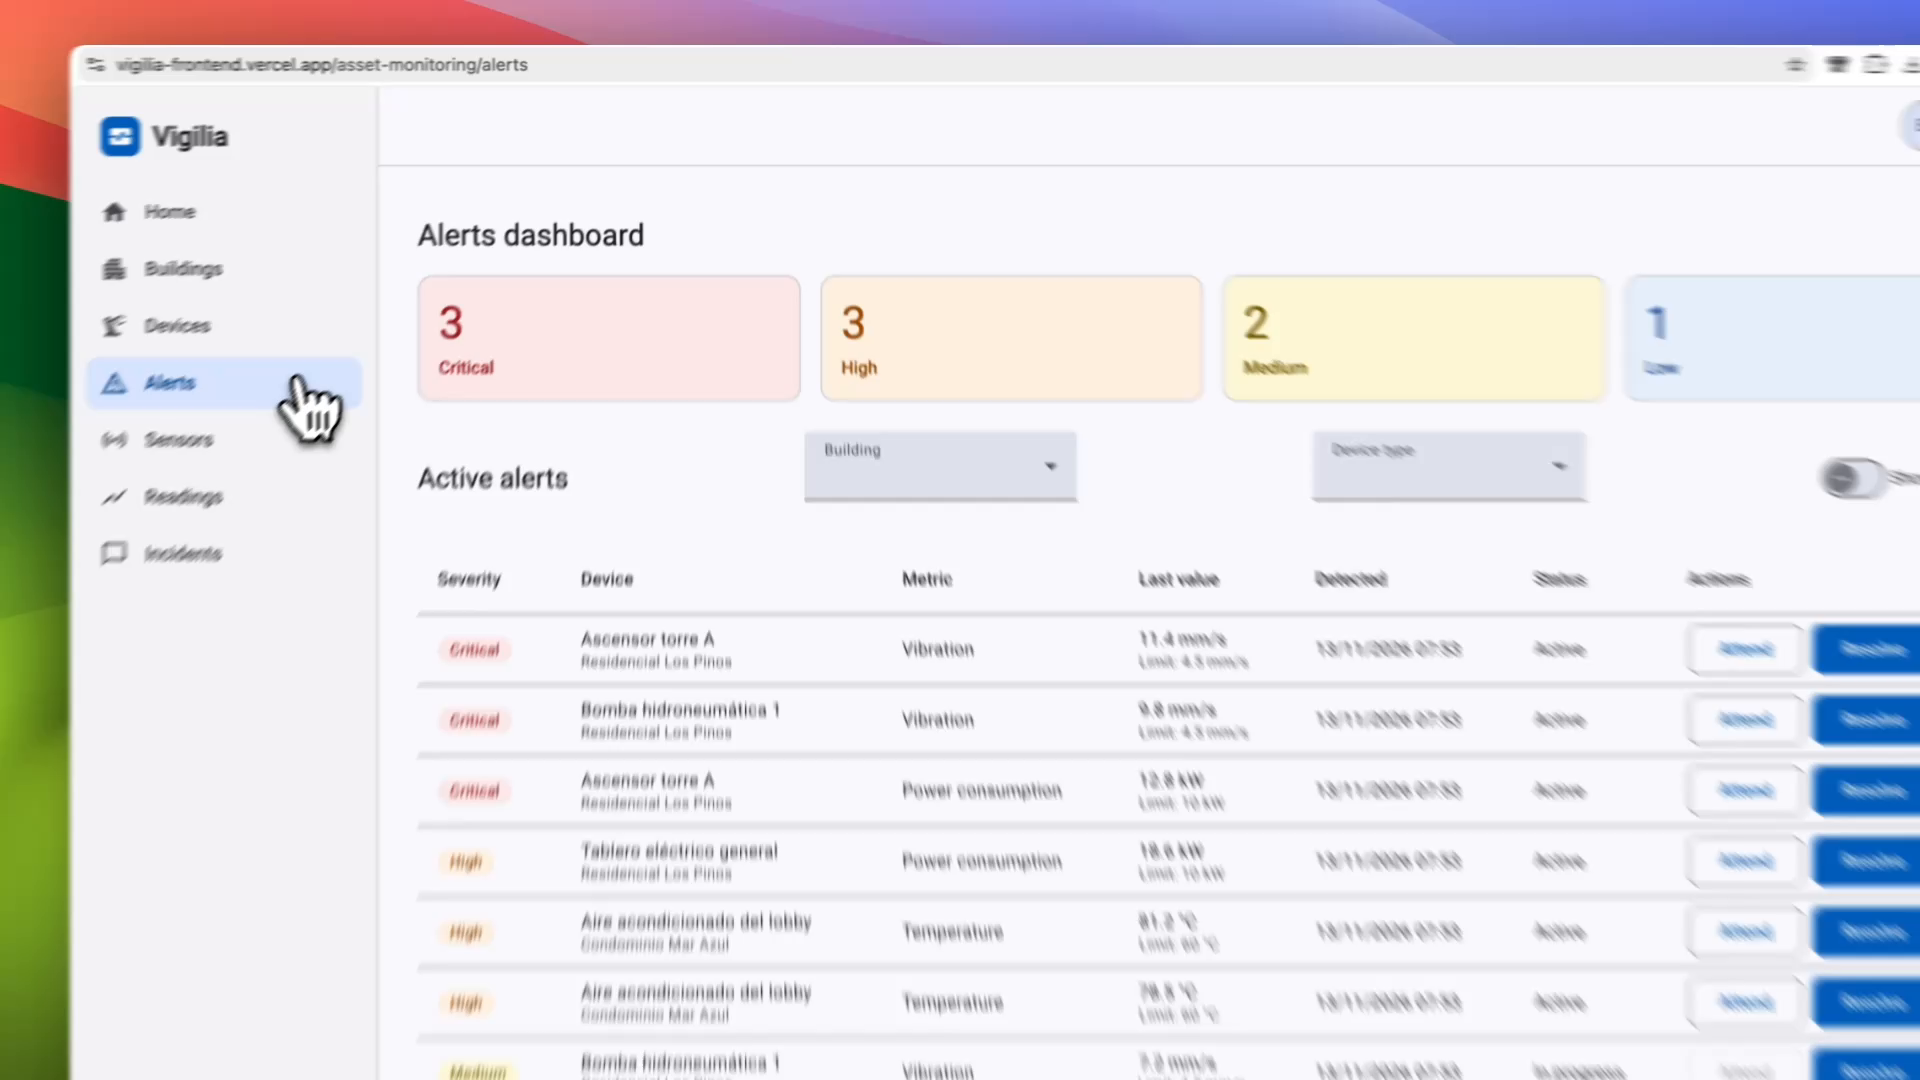
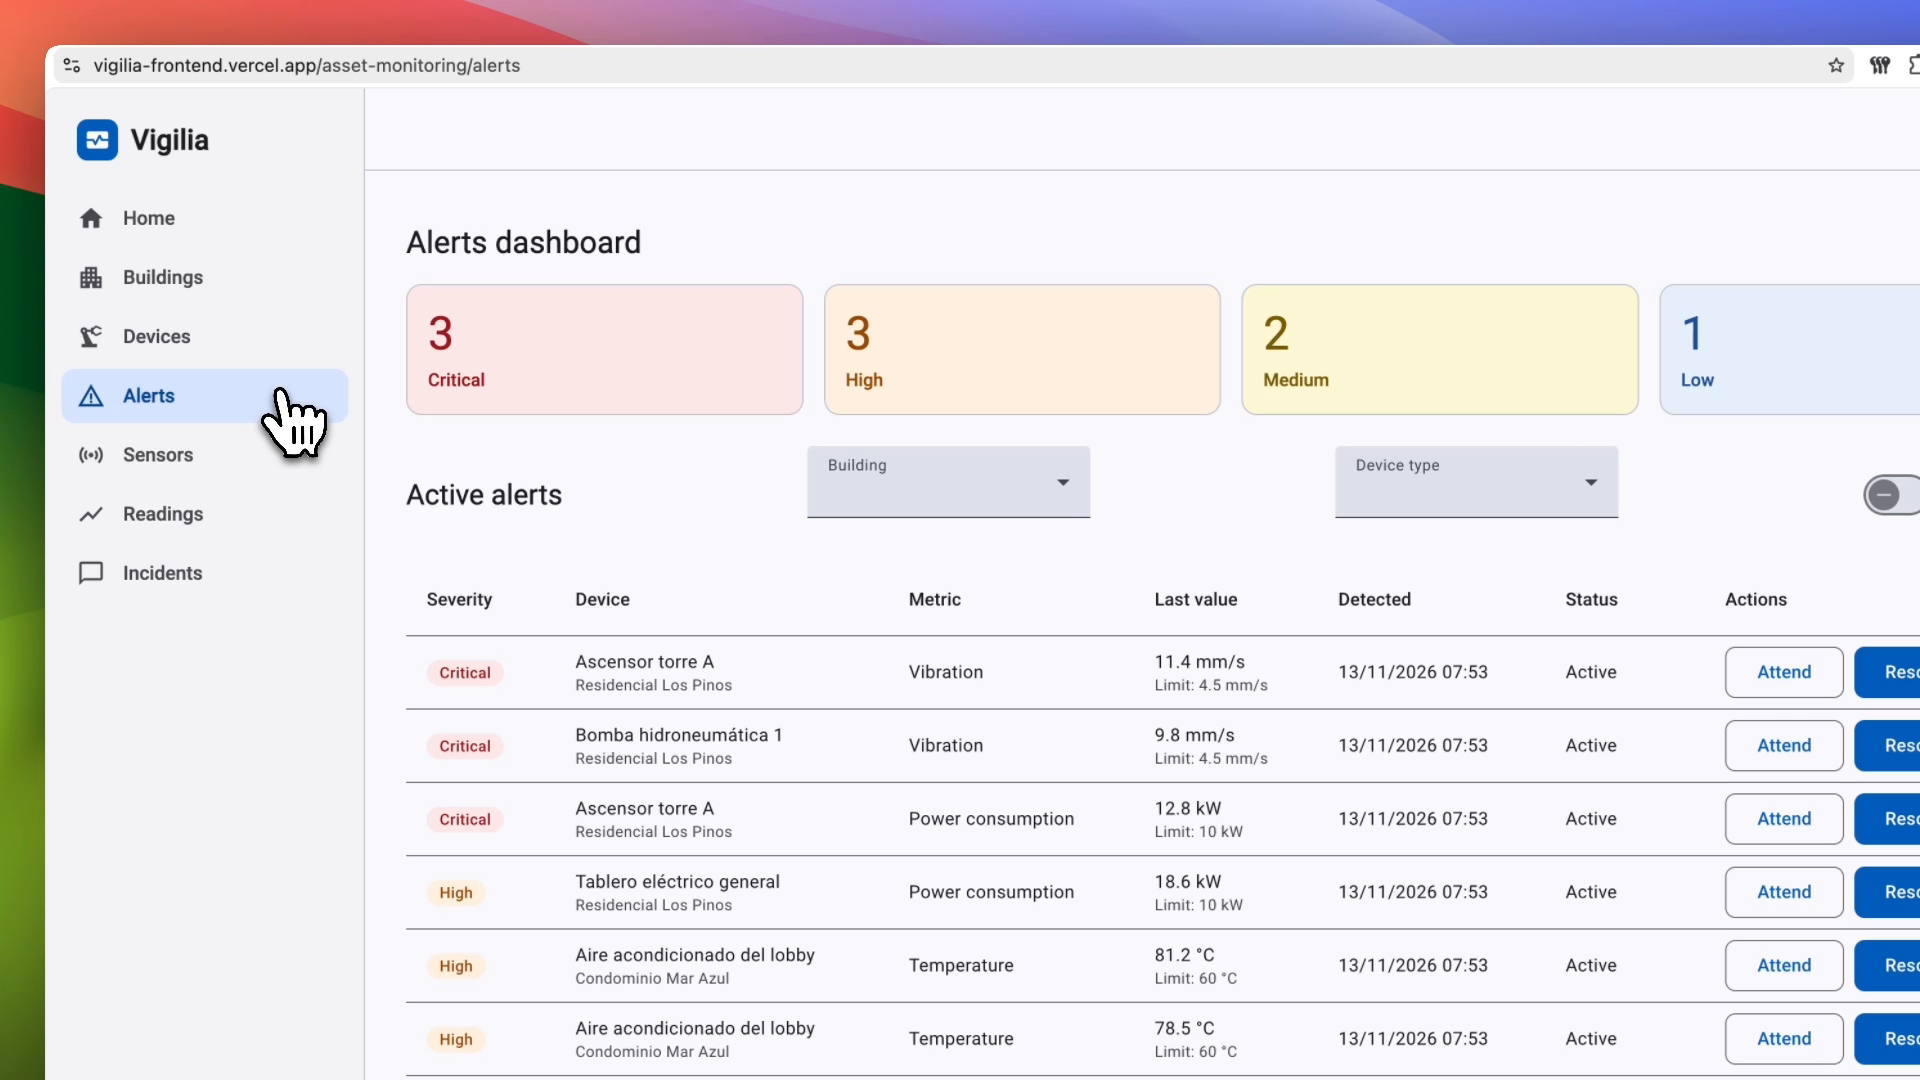
docs(report): update about the product section

diff --git a/report/58-video-about-the-product.md b/report/58-video-about-the-product.md
@@ -7,10 +7,8 @@ author: "Valladolid, Arturo"
 
 El video presenta Vigilia en menos de dos minutos. Empieza con el problema: en la mayoría de edificios, la bomba de agua, el ascensor o el tablero eléctrico se revisan recién cuando fallan, y para entonces la reparación cuesta más, tarda más y deja a los residentes sin servicio. Luego muestra la solución: sensores en los dispositivos críticos que avisan cuando una lectura sale de su rango, pensada para administradores, residentes y empresas de mantenimiento. Recorre la Web Application desplegada: los edificios con alertas activas, el historial de lecturas de cada dispositivo, el tablero de alertas ordenadas por severidad con su valor límite, la empresa de mantenimiento cerrando una alerta y el residente que reporta, sigue y califica un incidente. Cierra con el modelo de negocio, una cuota fija mensual por edificio, y los planes del Landing Page.
 
-El video no incluye opiniones de los entrevistados. Lo que dijeron en la validación está en la sección 5.3.2.
-
 ![Figura 5.4-1 – Tablero de alertas en el video About-the-Product](assets/s3-about-the-product.png)
 
 - **Nombre del archivo:** upc-pre-202620-1asi0729-16692-CodeNova-about-the-product-sprint-3.mp4
-- **URL en Microsoft Stream:** <https://upcedupe-my.sharepoint.com/:v:/g/personal/u202420147_upc_edu_pe/IQDrk6pAhEe4QKFRebxBQf-rARomxK1JIq9P3oUh1vmmoMk?nav=eyJyZWZlcnJhbEluZm8iOnsicmVmZXJyYWxBcHAiOiJPbmVEcml2ZUZvckJ1c2luZXNzIiwicmVmZXJyYWxBcHBQbGF0Zm9ybSI6IldlYiIsInJlZmVycmFsTW9kZSI6InZpZXciLCJyZWZlcnJhbFZpZXciOiJNeUZpbGVzTGlua0NvcHkifX0&e=qBFXiE>
+- **URL del video:** <https://upcedupe-my.sharepoint.com/:v:/g/personal/u202420147_upc_edu_pe/IQDrk6pAhEe4QKFRebxBQf-rARomxK1JIq9P3oUh1vmmoMk?nav=eyJyZWZlcnJhbEluZm8iOnsicmVmZXJyYWxBcHAiOiJPbmVEcml2ZUZvckJ1c2luZXNzIiwicmVmZXJyYWxBcHBQbGF0Zm9ybSI6IldlYiIsInJlZmVycmFsTW9kZSI6InZpZXciLCJyZWZlcnJhbFZpZXciOiJNeUZpbGVzTGlua0NvcHkifX0&e=qBFXiE>
 - **Duración:** 01:39
